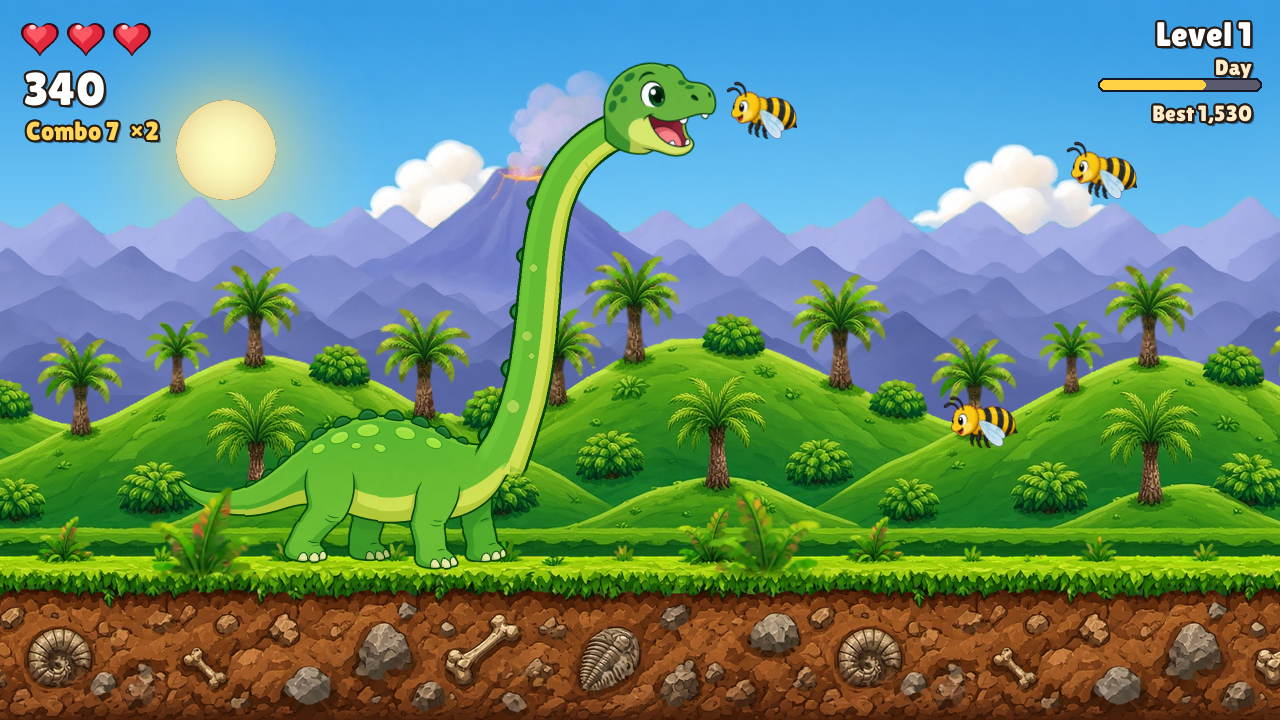
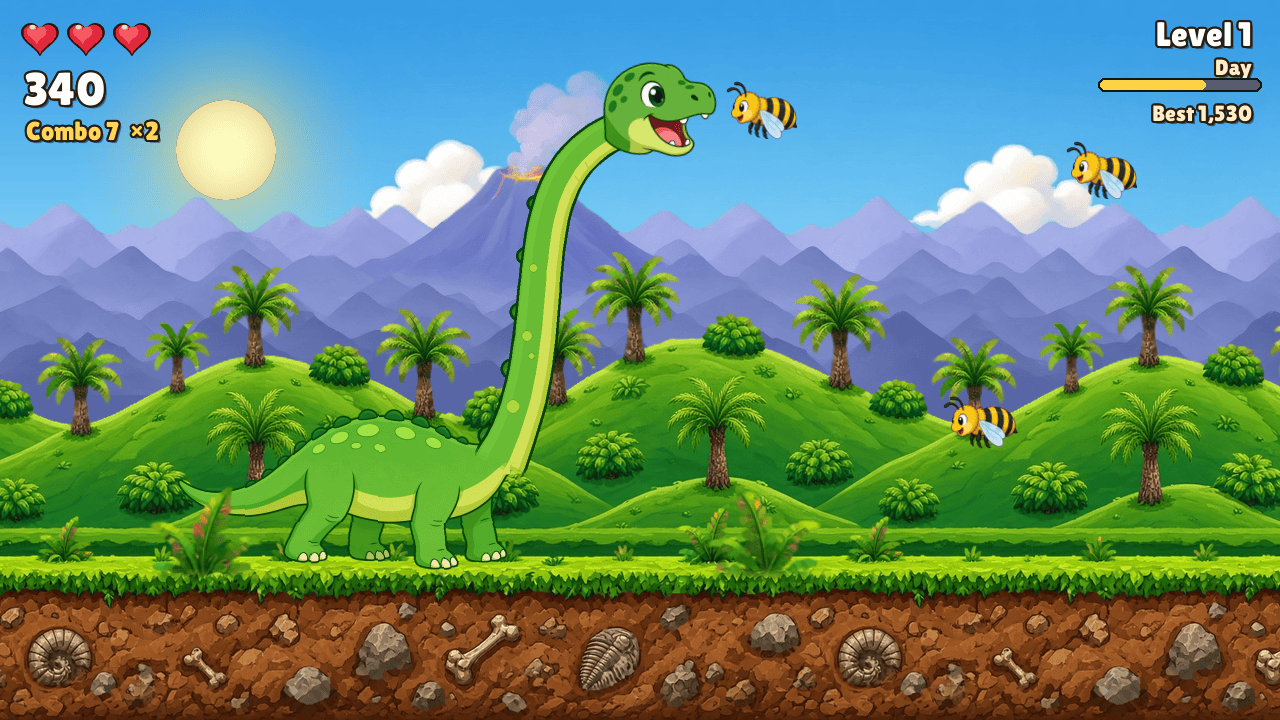
Move the gameplay screenshot under the title and shrink the PNG

diff --git a/README.md b/README.md
@@ -1,13 +1,13 @@
 # Dinosaur vs Bees (Remake)
 
+![Dinosaur vs Bees Remake screenshot](docs/screenshot.png)
+
 A finished, polished remake of [Dinosaur vs Bees](https://github.com/brixham99/Dinosaur-vs-Bees),
 written in Python with Pygame.
 
 A long-necked sauropod strolls through a prehistoric valley while bees drift in from the right.
 Raise and lower his neck to snap up the yellow bees, but steer clear of the angry red ones and
 don't let any bee bump into his head, neck or body without being eaten, or he gets stung.
-
-![Gameplay screenshot](docs/screenshot.png)
 
 ## How to play
 
